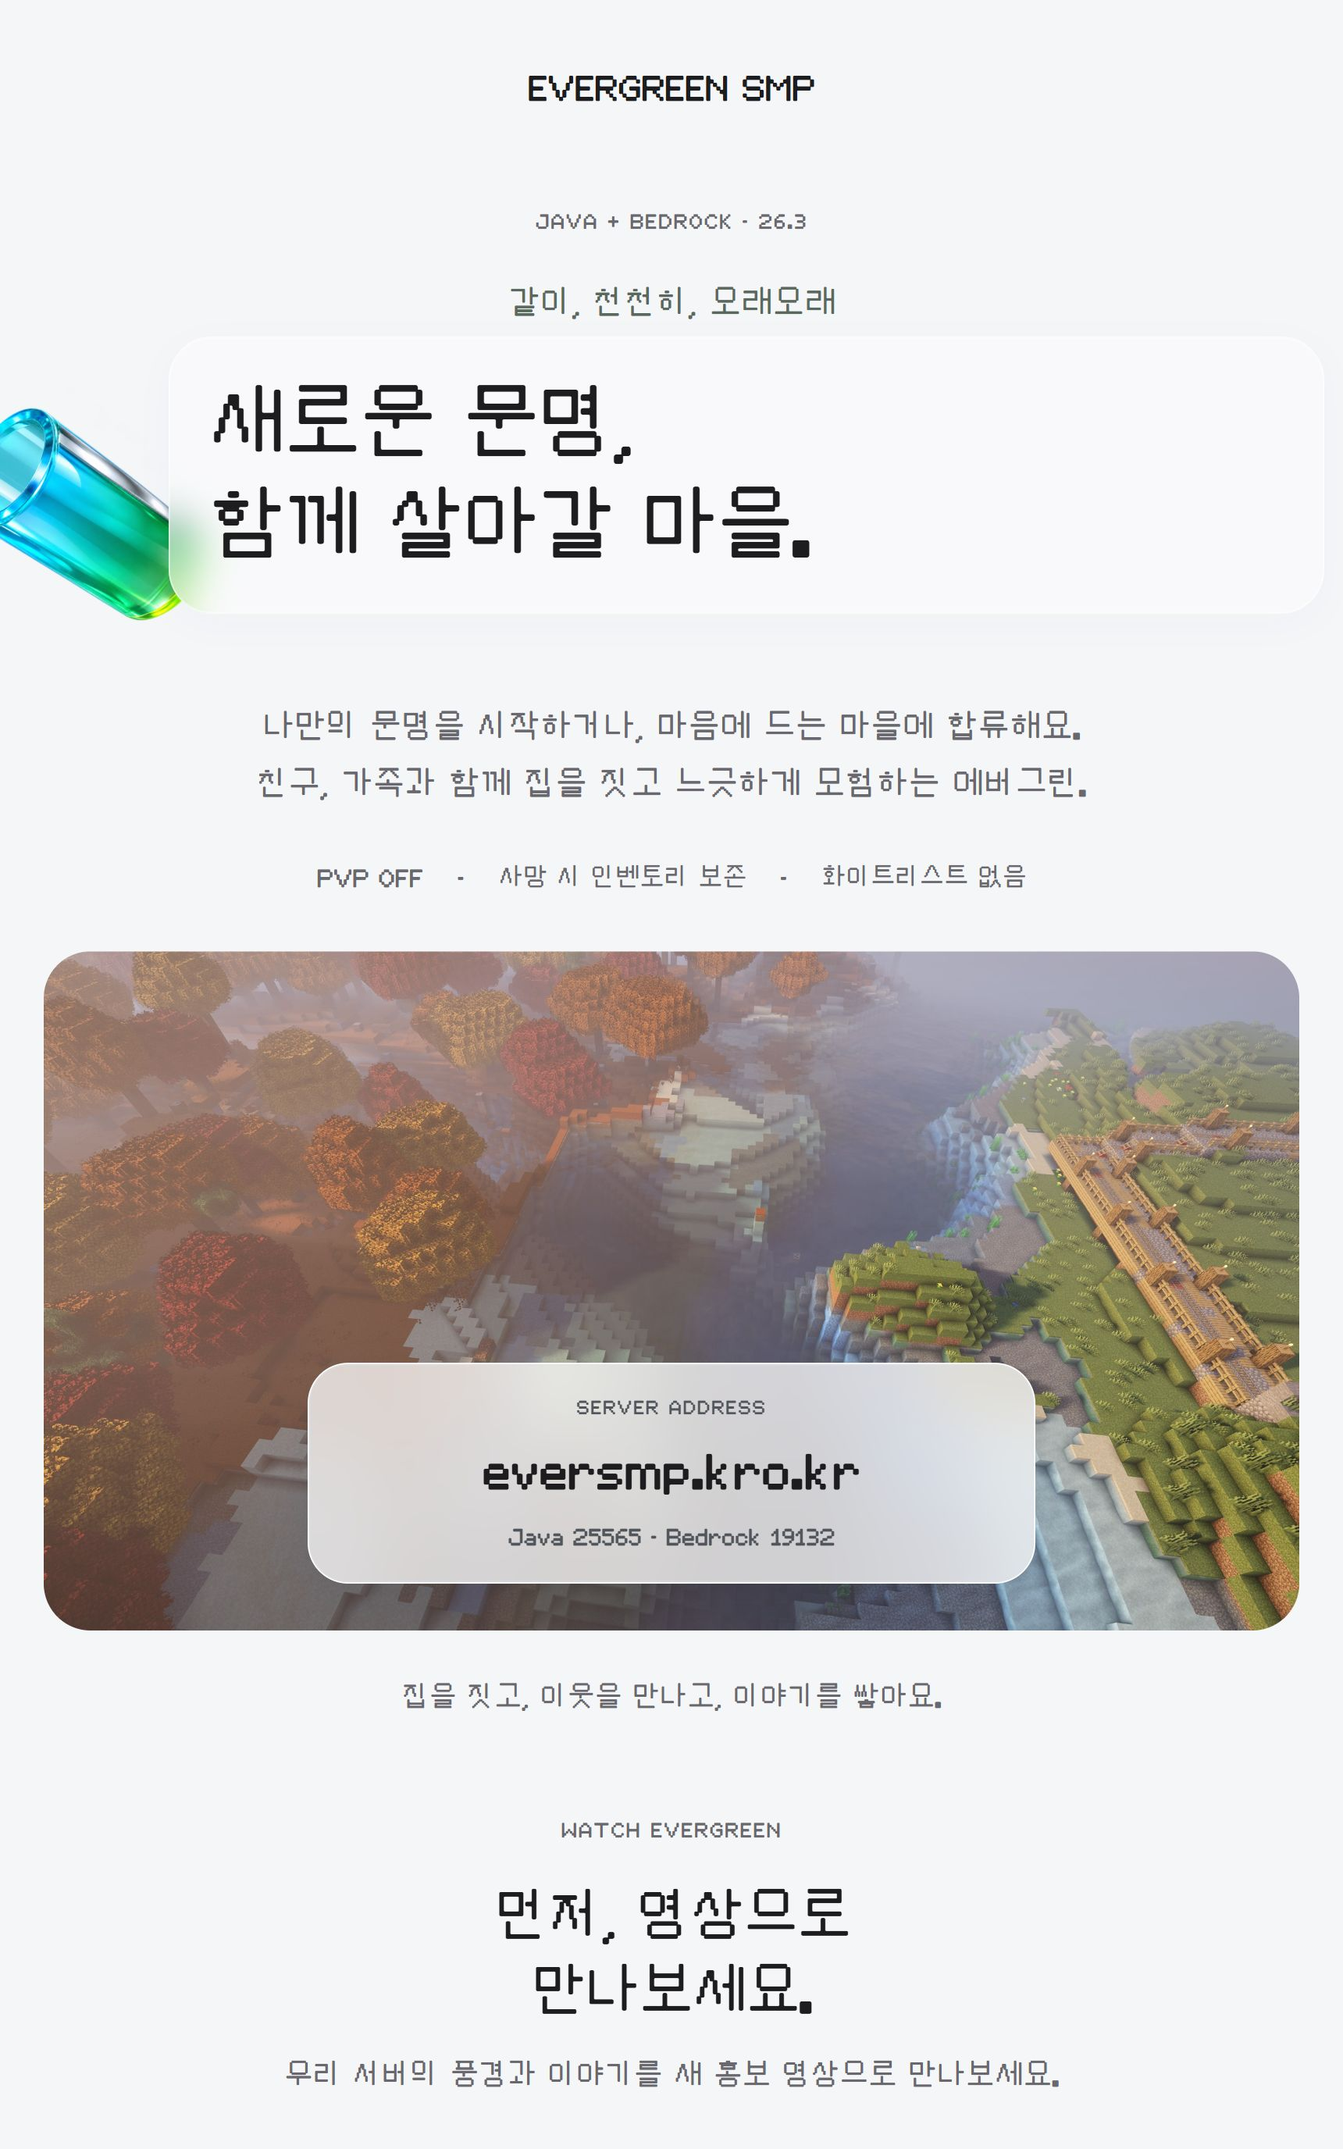
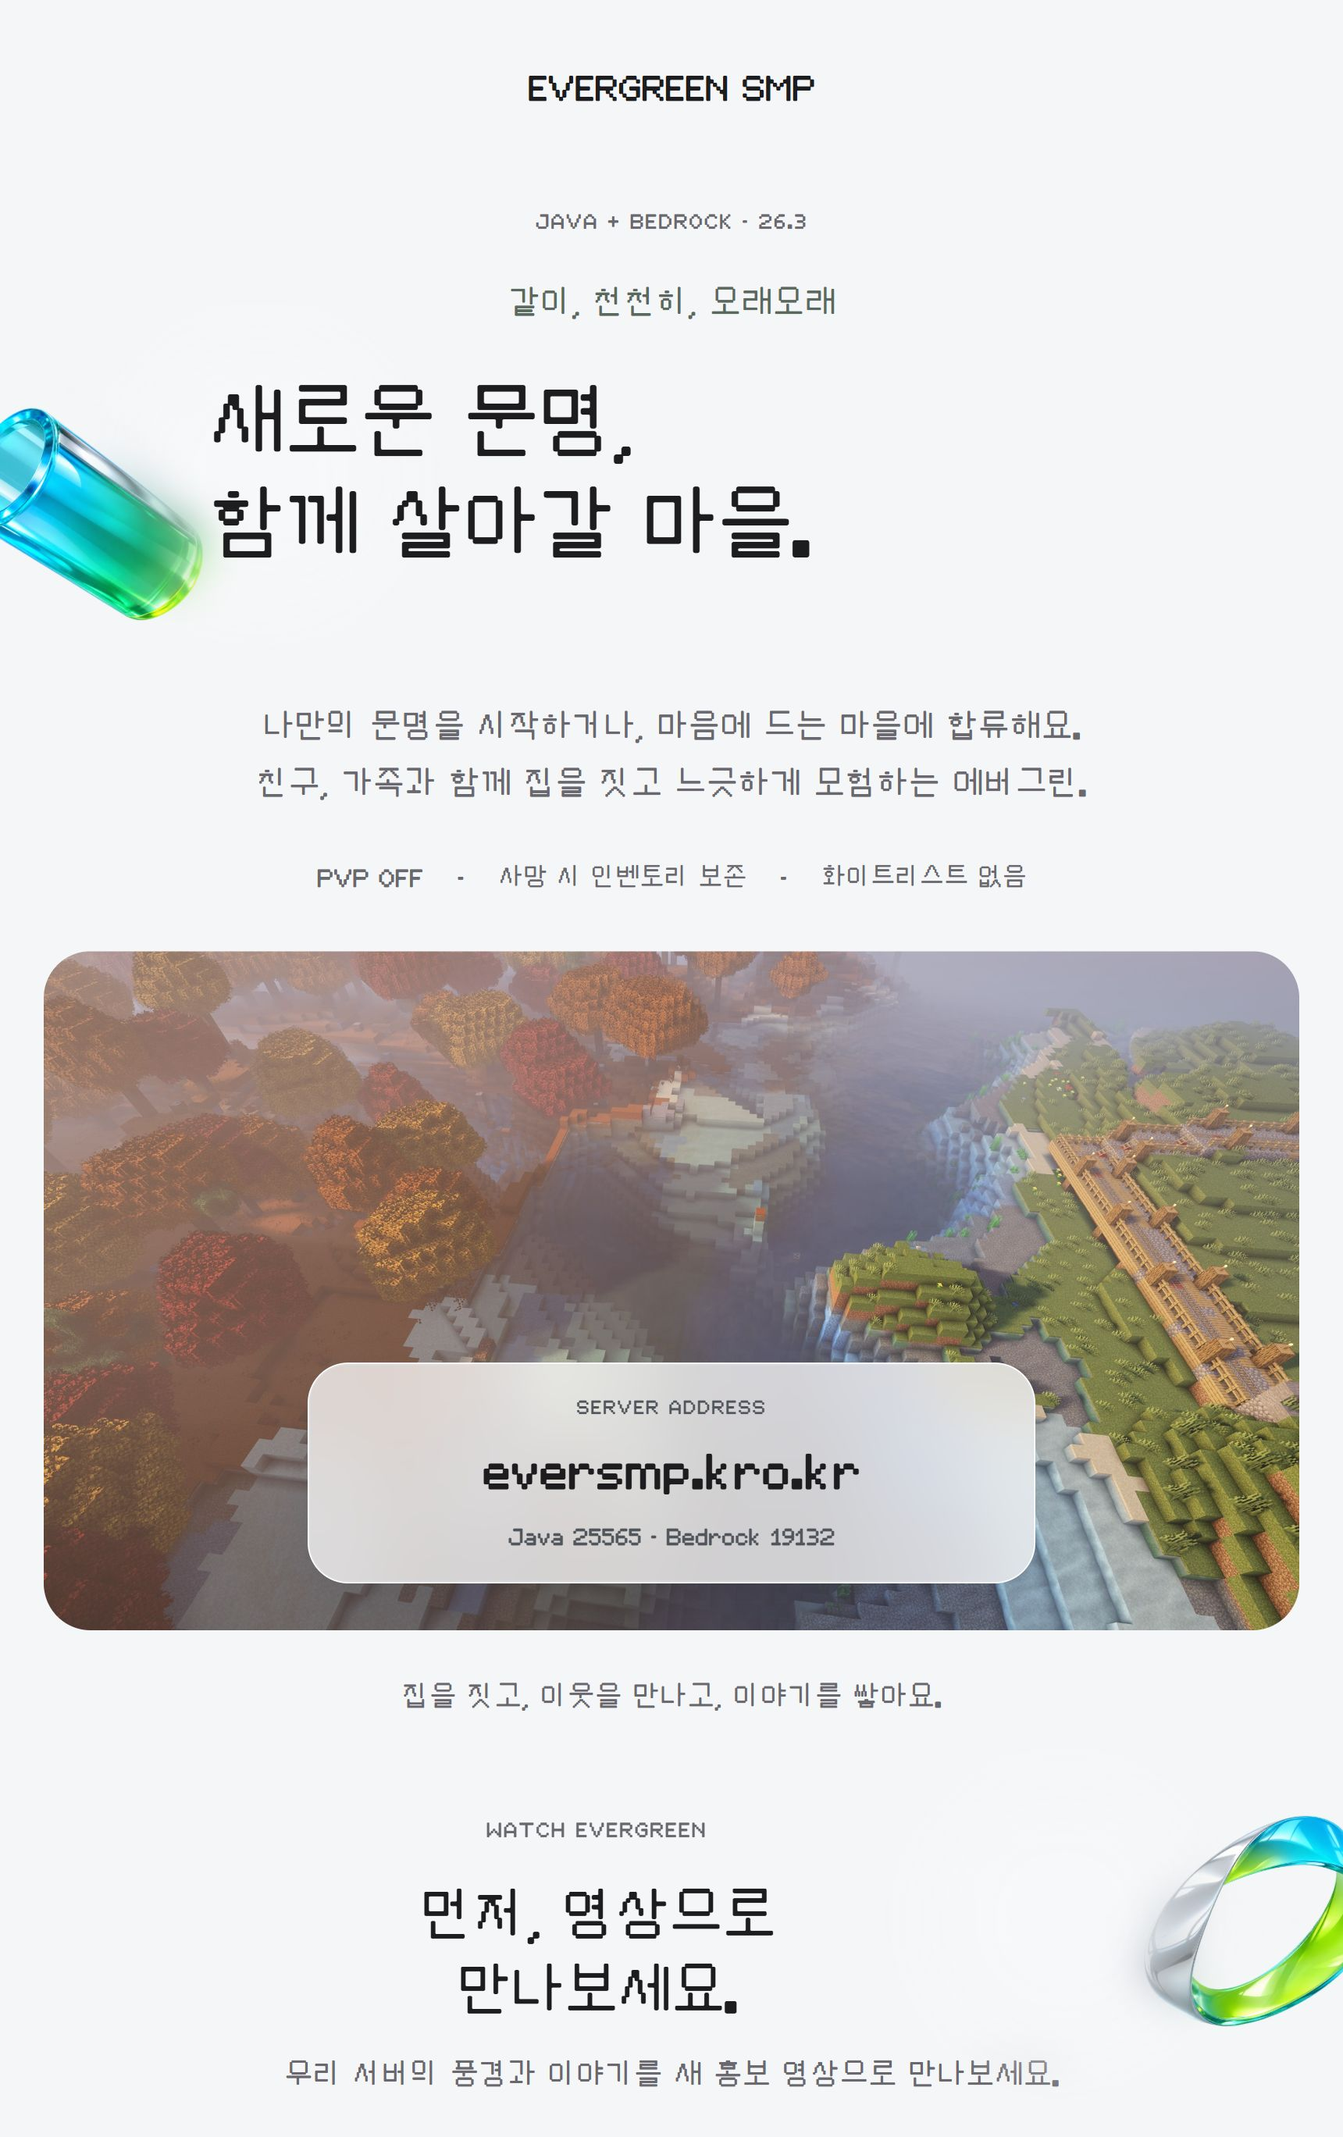
Add ten unique glass shapes, slower parallax and circular text frost

diff --git a/evergreen-geometry.js b/evergreen-geometry.js
@@ -2,26 +2,32 @@
 (() => {
   "use strict";
   if (!document.body.classList.contains("liquid-home")) return;
+  const main = document.querySelector("main#top");
   const images = [...document.querySelectorAll(".geometry-section > .geometry-side-art")];
-  if (!images.length) return;
+  if (!main || !images.length) return;
   const reducedMotion = window.matchMedia("(prefers-reduced-motion: reduce)");
   const clamp = (n, low, high) => Math.max(low, Math.min(high, n));
-  const records = images.map(image => {
-    const section = image.closest(".geometry-section");
-    const candidates = [...section.querySelectorAll(
-      "h1, h2, h3, p, summary, .claim-commands > div, .claim-steps > article, .client-download-card"
-    )];
-    const selected = new Set(candidates);
-    const targets = candidates.filter(node => {
-      let parent = node.parentElement;
-      while (parent && parent !== section) {
-        if (selected.has(parent)) return false;
-        parent = parent.parentElement;
-      }
-      return true;
-    }).map(node => ({ node, active: false }));
-    return { image, section, targets, offset: 0, top: 0, left: 0, width: 0, height: 0 };
-  });
+  const records = images.map(image => ({
+    image, section: image.closest(".geometry-section"),
+    offset: 0, top: 0, left: 0, width: 0, height: 0
+  }));
+  // A slow sculpture can pass behind the next section, so protect all readable
+  // areas together instead of only the text belonging to its original section.
+  const candidates = [...main.querySelectorAll(
+    ".geometry-section h1, .geometry-section h2, .geometry-section h3, " +
+    ".geometry-section p, .geometry-section summary, " +
+    ".geometry-section .claim-commands > div, " +
+    ".geometry-section .claim-steps > article, .geometry-section .client-download-card"
+  )];
+  const selected = new Set(candidates);
+  const targets = candidates.filter(node => {
+    let parent = node.parentElement;
+    while (parent && parent !== main) {
+      if (selected.has(parent)) return false;
+      parent = parent.parentElement;
+    }
+    return true;
+  }).map(node => ({ node, active: false }));
   let frame = 0;
   let needsMeasure = true;
   const clear = target => {
@@ -36,13 +42,13 @@
       item.left = box.left;
       item.width = box.width;
       item.height = box.height;
-      for (const target of item.targets) {
-        const rect = target.node.getBoundingClientRect();
-        target.left = rect.left;
-        target.top = rect.top + scrollY;
-        target.width = rect.width;
-        target.height = rect.height;
-      }
+    }
+    for (const target of targets) {
+      const rect = target.node.getBoundingClientRect();
+      target.left = rect.left;
+      target.top = rect.top + scrollY;
+      target.width = rect.width;
+      target.height = rect.height;
     }
   }
   function render() {
@@ -51,11 +57,14 @@
     const viewportHeight = window.innerHeight;
     const viewportWidth = document.documentElement.clientWidth;
     if (needsMeasure) { measure(scrollY); needsMeasure = false; }
-    // Cache all geometry during measure; scroll frames only write styles.
+    const visibleArt = [];
+    // Document-space anchor + 62% scroll compensation = 38% viewport speed.
+    // The generous limit is reached only beyond the visible screen: no small
+    // 130px plateau makes a visible sculpture suddenly follow the page again.
     for (const item of records) {
-      const limit = Math.min(130, item.width * 0.7);
+      const limit = 0.95 * (viewportHeight + item.height);
       const offset = reducedMotion.matches ? 0 : clamp(
-        (scrollY + viewportHeight * 0.5 - item.top - item.height * 0.5) * 0.2,
+        (scrollY + viewportHeight * 0.5 - item.top - item.height * 0.5) * 0.62,
         -limit, limit
       );
       item.offset = offset;
@@ -64,26 +73,46 @@
         left: Math.max(0, item.left),
         right: Math.min(viewportWidth, item.left + item.width),
         top: item.top + offset,
-        bottom: item.top + offset + item.height
+        bottom: item.top + offset + item.height,
+        width: item.width
       };
-      const visible = art.bottom >= scrollY && art.top <= scrollY + viewportHeight;
-      for (const target of item.targets) {
-        if (!visible || !target.width || !target.height) { clear(target); continue; }
+      if (art.bottom >= scrollY && art.top <= scrollY + viewportHeight) visibleArt.push(art);
+    }
+    // Scroll frames read only cached bounds. Round frosted halos are calculated
+    // from actual overlap, and their radial masks never filter the text itself.
+    for (const target of targets) {
+      if (!target.width || !target.height || target.top + target.height < scrollY - 220 ||
+          target.top > scrollY + viewportHeight + 220) { clear(target); continue; }
+      const circles = [];
+      for (const art of visibleArt) {
         const left = Math.max(art.left, target.left - 8);
         const right = Math.min(art.right, target.left + target.width + 8);
         const top = Math.max(art.top, target.top - 6);
         const bottom = Math.min(art.bottom, target.top + target.height + 6);
-        if (right <= left || bottom <= top) { clear(target); continue; }
-        // The frosted pseudo-element is restricted to this exact overlap rectangle.
-        const style = target.node.style;
-        style.setProperty("--geometry-frost-left", `${(left - target.left).toFixed(2)}px`);
-        style.setProperty("--geometry-frost-top", `${(top - target.top).toFixed(2)}px`);
-        style.setProperty("--geometry-frost-width", `${(right - left).toFixed(2)}px`);
-        style.setProperty("--geometry-frost-height", `${(bottom - top).toFixed(2)}px`);
-        if (!target.active) {
-          target.node.classList.add("geometry-under-art");
-          target.active = true;
-        }
+        if (right <= left || bottom <= top) continue;
+        circles.push({
+          x: (left + right) * 0.5 - target.left,
+          y: (top + bottom) * 0.5 - target.top,
+          radius: Math.max(30, Math.min(art.width * 0.62, Math.max(right - left, bottom - top) * 0.6 + 18))
+        });
+      }
+      if (!circles.length) { clear(target); continue; }
+      const left = Math.min(...circles.map(circle => circle.x - circle.radius));
+      const right = Math.max(...circles.map(circle => circle.x + circle.radius));
+      const top = Math.min(...circles.map(circle => circle.y - circle.radius));
+      const bottom = Math.max(...circles.map(circle => circle.y + circle.radius));
+      const mask = circles.map(circle =>
+        `radial-gradient(circle ${circle.radius.toFixed(2)}px at ${(circle.x - left).toFixed(2)}px ${(circle.y - top).toFixed(2)}px, #000 0%, #000 34%, rgb(0 0 0 / 90%) 52%, rgb(0 0 0 / 48%) 74%, transparent 100%)`
+      ).join(", ");
+      const style = target.node.style;
+      style.setProperty("--geometry-frost-left", `${left.toFixed(2)}px`);
+      style.setProperty("--geometry-frost-top", `${top.toFixed(2)}px`);
+      style.setProperty("--geometry-frost-width", `${(right - left).toFixed(2)}px`);
+      style.setProperty("--geometry-frost-height", `${(bottom - top).toFixed(2)}px`);
+      style.setProperty("--geometry-frost-mask", mask);
+      if (!target.active) {
+        target.node.classList.add("geometry-under-art");
+        target.active = true;
       }
     }
   }
@@ -93,7 +122,6 @@
   }
   window.addEventListener("scroll", () => requestFrame(), { passive: true });
   window.addEventListener("resize", () => requestFrame(true), { passive: true });
-  // Reset transforms before measuring after a motion preference change.
   reducedMotion.addEventListener("change", () => {
     for (const item of records) {
       item.offset = 0;
@@ -106,7 +134,7 @@
   if ("ResizeObserver" in window) {
     const observer = new ResizeObserver(() => requestFrame(true));
     records.forEach(item => observer.observe(item.section));
-    observer.observe(document.querySelector("main#top"));
+    observer.observe(main);
   }
   window.addEventListener("pageshow", () => requestFrame(true), { passive: true });
   requestFrame(true);

diff --git a/index.html b/index.html
@@ -366,8 +366,8 @@
     <script src="presence-config.js?v=20261016-live1" defer></script>
     <script src="presence.js?v=20261017-faces1" defer></script>
     <link rel="stylesheet" href="evergreen-liquid.css?v=20261118-sprout2" />
-    <link rel="stylesheet" href="evergreen-geometry.css?v=20261118-geometry2" />
-    <script src="evergreen-geometry.js?v=20261118-geometry2" defer></script>
+    <link rel="stylesheet" href="evergreen-geometry.css?v=20261118-geometry4" />
+    <script src="evergreen-geometry.js?v=20261118-geometry4" defer></script>
   </head>
   <body class="evergreen-liquid liquid-home">
     <header class="topbar">
@@ -387,7 +387,7 @@
 
     <main id="top">
       <section class="hero geometry-section" aria-labelledby="hero-title">
-        <img class="geometry-side-art" data-side="left" src="evergreen-geometry-cylinder.png?v=20261118-geometry1" width="1254" height="1254" alt="" aria-hidden="true" loading="lazy" decoding="async" draggable="false" />
+        <img class="geometry-side-art" data-side="left" src="evergreen-geometry-cylinder.png?v=20261118-geometry3" width="1254" height="1254" alt="" aria-hidden="true" loading="lazy" decoding="async" draggable="false" />
         <div class="hero-glow" aria-hidden="true"></div>
         <div class="hero-copy">
           <p class="eyebrow"><span></span> JAVA + BEDROCK · 26.3</p>
@@ -429,7 +429,8 @@
         </figure>
       </section>
 
-      <section class="promo-video" id="promo-video" aria-labelledby="promo-video-title">
+      <section class="promo-video geometry-section" id="promo-video" aria-labelledby="promo-video-title">
+        <img class="geometry-side-art" data-side="right" src="evergreen-geometry-ring.png?v=20261118-geometry3" width="1254" height="1254" alt="" aria-hidden="true" loading="lazy" decoding="async" draggable="false" />
         <div class="promo-video-heading">
           <div>
             <p class="promo-video-kicker">WATCH EVERGREEN</p>
@@ -485,7 +486,8 @@
         </div>
       </section>
 
-      <section class="section intro" aria-labelledby="intro-title">
+      <section class="section intro geometry-section" aria-labelledby="intro-title">
+        <img class="geometry-side-art" data-side="left" src="evergreen-geometry-sphere.png?v=20261118-geometry3" width="1254" height="1254" alt="" aria-hidden="true" loading="lazy" decoding="async" draggable="false" />
         <div class="section-heading">
           <p class="section-number">01 / ABOUT</p>
           <div class="guide-title-row">
@@ -535,7 +537,8 @@
         </div>
       </section>
 
-      <section class="section rules" aria-labelledby="rules-title">
+      <section class="section rules geometry-section" aria-labelledby="rules-title">
+        <img class="geometry-side-art" data-side="right" src="evergreen-geometry-cube.png?v=20261118-geometry3" width="1254" height="1254" alt="" aria-hidden="true" loading="lazy" decoding="async" draggable="false" />
         <div class="section-heading">
           <p class="section-number">02 / RULES</p>
           <div class="guide-title-row">
@@ -552,7 +555,7 @@
       </section>
 
       <section class="claim-guide geometry-section" id="claim" aria-labelledby="claim-title">
-        <img class="geometry-side-art" data-side="right" src="evergreen-geometry-ring.png?v=20261118-geometry1" width="1254" height="1254" alt="" aria-hidden="true" loading="lazy" decoding="async" draggable="false" />
+        <img class="geometry-side-art" data-side="left" src="evergreen-geometry-fluted.png?v=20261118-geometry3" width="1254" height="1254" alt="" aria-hidden="true" loading="lazy" decoding="async" draggable="false" />
         <div class="claim-heading">
           <p class="section-number">03 / LAND CLAIM</p>
           <div class="guide-title-row">
@@ -589,7 +592,8 @@
         <p class="claim-note">선택 영역은 최소 5×5이며, 현재 1인당 보호구역의 가로×세로 면적 합계가 500,000블록까지 가능합니다.</p>
       </section>
 
-      <section class="claim-guide town-guide" id="towns" aria-labelledby="town-title">
+      <section class="claim-guide town-guide geometry-section" id="towns" aria-labelledby="town-title">
+        <img class="geometry-side-art" data-side="right" src="evergreen-geometry-arch.png?v=20261118-geometry3" width="1254" height="1254" alt="" aria-hidden="true" loading="lazy" decoding="async" draggable="false" />
         <div class="claim-heading">
           <p class="section-number">04 / YOUR TOWN</p>
           <div class="guide-title-row">
@@ -643,7 +647,7 @@
       </section>
 
       <section class="claim-guide green-guide geometry-section" id="green" aria-labelledby="green-title">
-        <img class="geometry-side-art" data-side="left" src="evergreen-geometry-fluted.png?v=20261118-geometry1" width="1254" height="1254" alt="" aria-hidden="true" loading="lazy" decoding="async" draggable="false" />
+        <img class="geometry-side-art" data-side="left" src="evergreen-geometry-helix.png?v=20261118-geometry3" width="1254" height="1254" alt="" aria-hidden="true" loading="lazy" decoding="async" draggable="false" />
         <div class="claim-heading">
           <p class="section-number">그린 · 환전 안내</p>
           <div class="guide-title-row">
@@ -701,7 +705,8 @@
         <p class="claim-note">새 기본 주민 거래창에서 광물은 1그린권으로 살 수 있어요. 5·10그린권은 거래 목록 아래에서 1그린권으로 바꿀 수 있어요. 환전소를 옮기려면 이장이 기존 주민을 제거한 뒤 새 위치에서 소환하면 돼요. 방문한 마을에서는 주민 거래 권한이 있어야 환전할 수 있어요.</p>
       </section>
 
-      <section class="social-guide" id="friends" aria-labelledby="social-title">
+      <section class="social-guide geometry-section" id="friends" aria-labelledby="social-title">
+        <img class="geometry-side-art" data-side="right" src="evergreen-geometry-prism.png?v=20261118-geometry3" width="1254" height="1254" alt="" aria-hidden="true" loading="lazy" decoding="async" draggable="false" />
         <div class="social-heading">
           <p class="section-number">05 / MENU &amp; FRIENDS</p>
           <div class="guide-title-row">
@@ -757,7 +762,7 @@
       </section>
 
       <section class="client-downloads geometry-section" id="downloads" aria-labelledby="downloads-title">
-        <img class="geometry-side-art" data-side="right" src="evergreen-geometry-cone.png?v=20261118-geometry1" width="1254" height="1254" alt="" aria-hidden="true" loading="lazy" decoding="async" draggable="false" />
+        <img class="geometry-side-art" data-side="left" src="evergreen-geometry-cone.png?v=20261118-geometry3" width="1254" height="1254" alt="" aria-hidden="true" loading="lazy" decoding="async" draggable="false" />
         <div class="client-download-heading">
           <p class="section-number">EVERGREEN CLIENT · 1.5.0</p>
           <h2 id="downloads-title">에버그린을,<br />조금 더 편하게.</h2>
@@ -807,7 +812,8 @@
         </aside>
       </section>
 
-      <section class="join" id="join" aria-labelledby="join-title">
+      <section class="join geometry-section" id="join" aria-labelledby="join-title">
+        <img class="geometry-side-art" data-side="right" src="evergreen-geometry-discs.png?v=20261118-geometry3" width="1254" height="1254" alt="" aria-hidden="true" loading="lazy" decoding="async" draggable="false" />
         <div class="join-heading">
           <p class="section-number">06 / JOIN NOW</p>
           <div class="guide-title-row">

diff --git a/evergreen-geometry.css b/evergreen-geometry.css
@@ -1,4 +1,4 @@
-/* Four unique image-generated sculptures, alternating at the viewport edges. */
+/* Ten unique image-generated sculptures, alternating at the viewport edges. */
 .evergreen-liquid {
   --geometry-reading-width: 1080px;
   --geometry-gutter: clamp(220px, 18vw, 350px);
@@ -138,7 +138,7 @@ body.evergreen-liquid { background: #f5f6f8; }
   .liquid-home main#top > section { width: 100%; }
 }
 
-/* Motion belongs only to the four homepage sculptures. Text is never filtered. */
+/* Motion belongs only to the ten homepage sculptures. Text is never filtered. */
 .liquid-home .geometry-side-art {
   transform: translate3d(0, var(--geometry-scroll-y, 0px), 0);
   will-change: transform;
@@ -157,8 +157,12 @@ body.evergreen-liquid { background: #f5f6f8; }
   height: var(--geometry-frost-height);
   z-index: -1;
   pointer-events: none;
-  border-radius: 14px;
-  clip-path: inset(0 round 14px);
+  /* Every mask is a true circle with a transparent, feathered outer rim. */
+  border-radius: 0;
+  -webkit-mask-image: var(--geometry-frost-mask);
+  mask-image: var(--geometry-frost-mask);
+  -webkit-mask-repeat: no-repeat;
+  mask-repeat: no-repeat;
   background: rgb(255 255 255 / 18%);
   -webkit-backdrop-filter: blur(12px);
   backdrop-filter: blur(12px);
